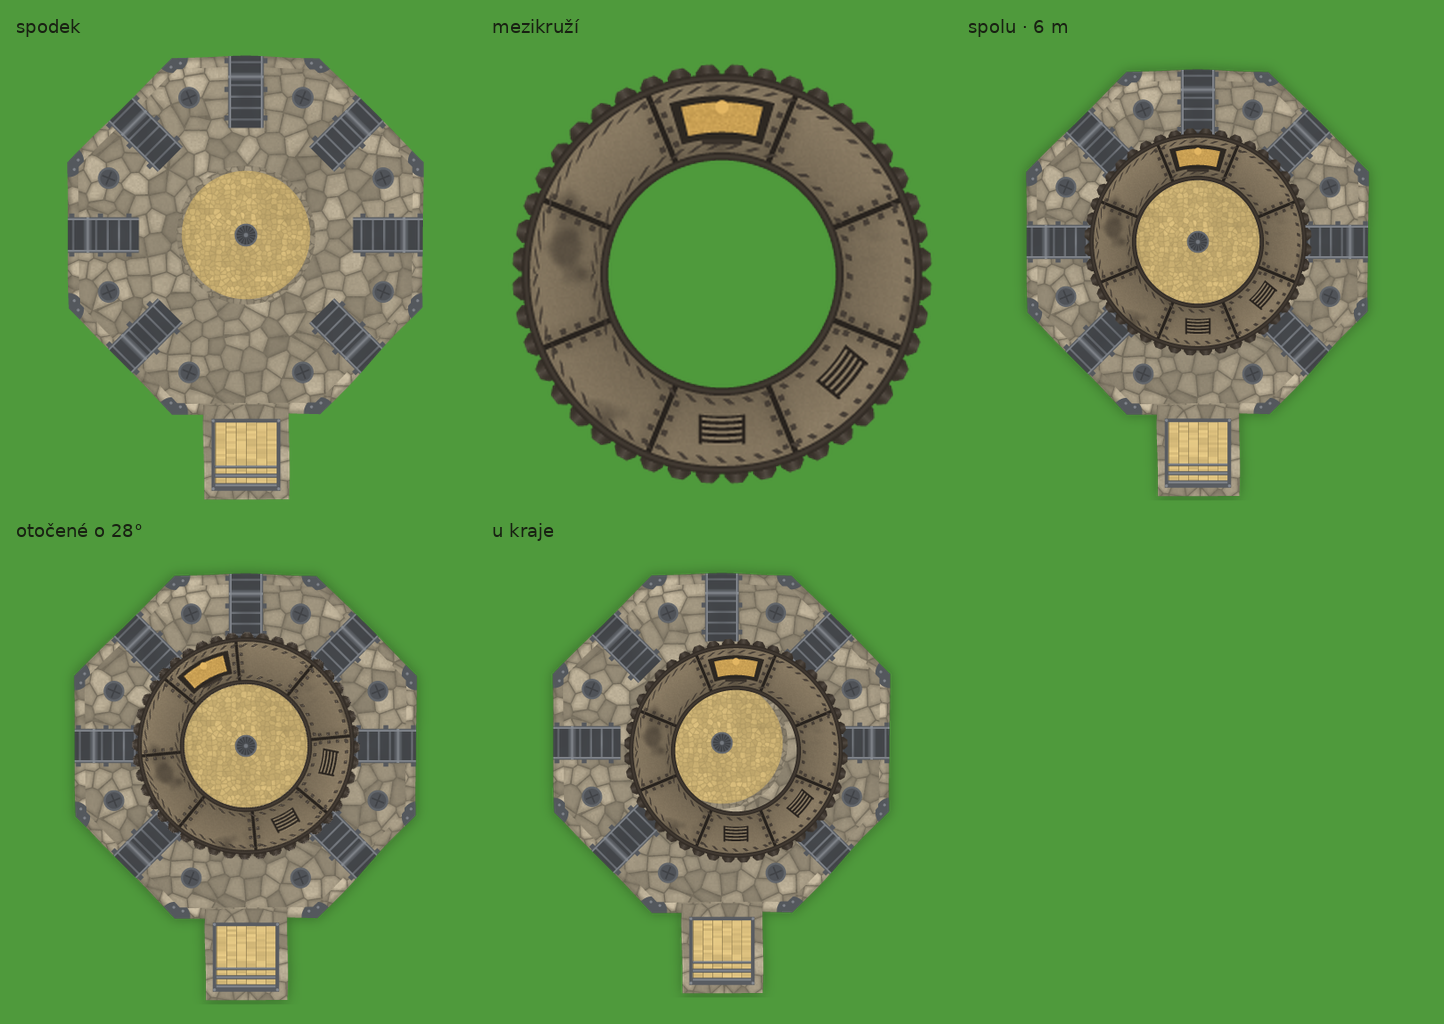
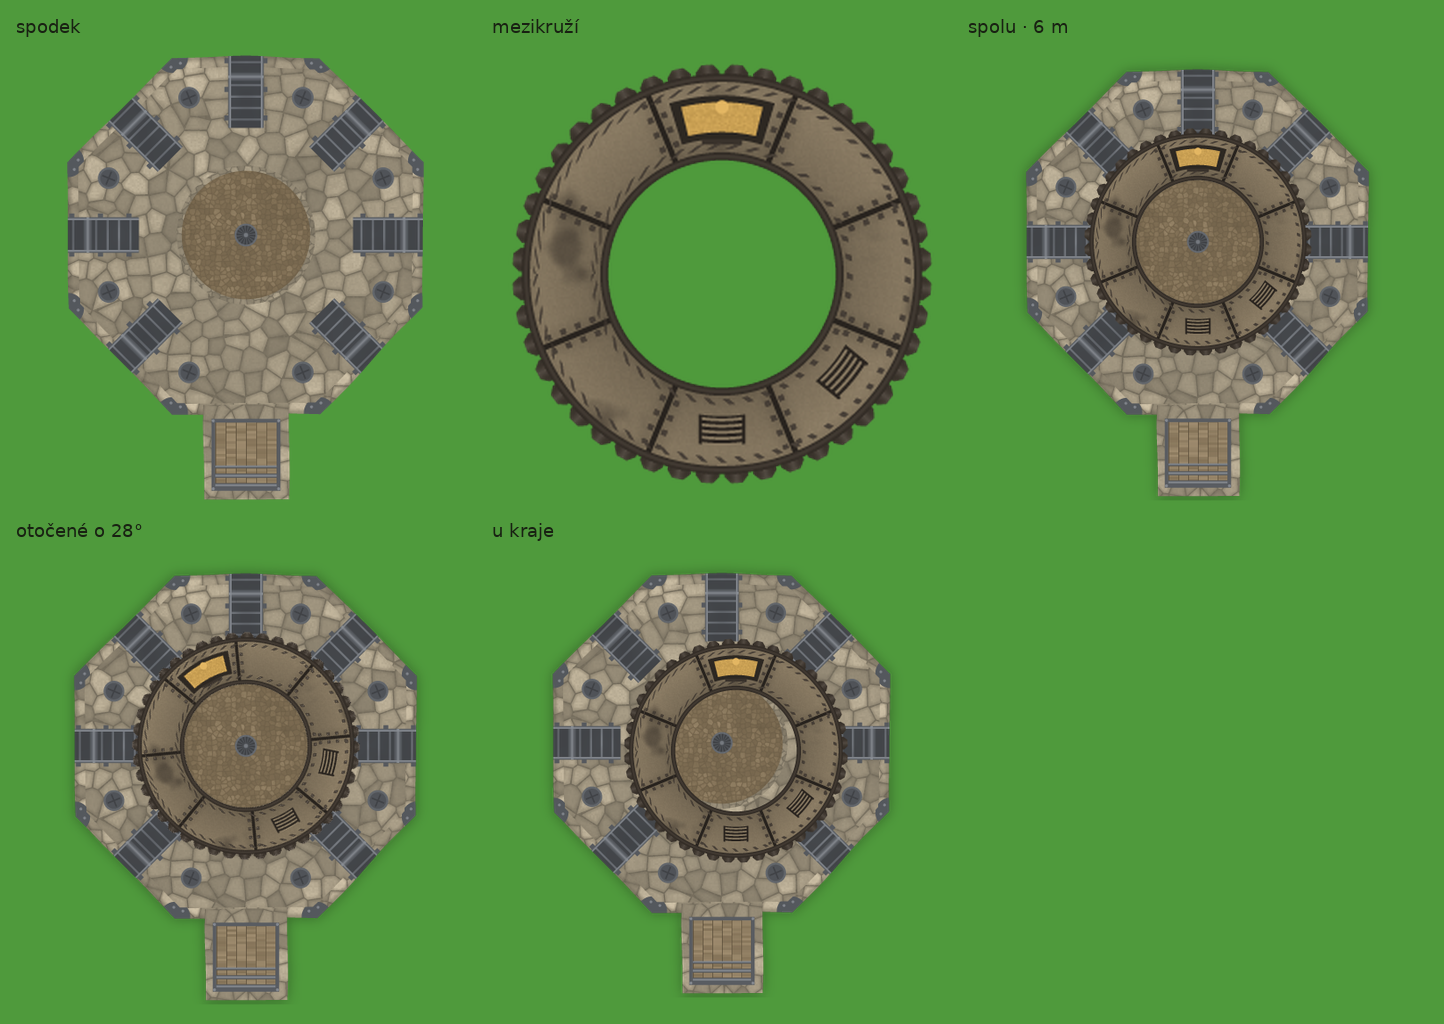
Make factory dust visible on a darker yard

diff --git a/tools/gen_factory.py b/tools/gen_factory.py
@@ -76,7 +76,7 @@ SOUTH = 2
 TINTS_BASE = (
     (176, 164, 140),  # podlaha
     (102, 106, 112),  # kov
-    (214, 186, 120),  # sklad
+    (134, 116, 88),  # sklad, středně tmavý: prach světlých i tmavých materiálů je na něm vidět
 )
 TINTS_RING = (
     (150, 134, 108),  # pláty
